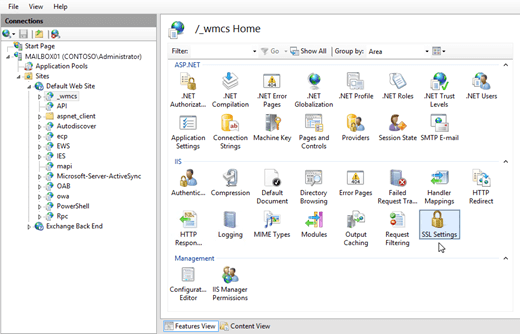
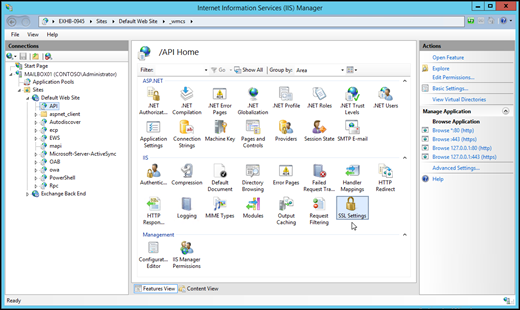
Text and art updates for OWA http/https redirection topic
Removed _wmcs and IES virtual directory information per Issue #797

diff --git a/Exchange/ExchangeServer/clients/outlook-on-the-web/http-to-https-redirection.md b/Exchange/ExchangeServer/clients/outlook-on-the-web/http-to-https-redirection.md
@@ -87,7 +87,7 @@ Based on the information in the [Default Require SSL and HTTP Redirect settings 
 
     ![In IIS Manager, in the SSL settings of the virtual directory, select Require under Require SSL.](../../media/b6d83a19-4f5d-4f9a-b681-8945940a0adc.png)
 
-5. Repeat the previous steps on each virtual directory in the default website that had **Require SSL** enabled by default (except for /owa). The only virtual directories that don't have **Require SSL** enabled by default are /IES, /PowerShell, and /Rpc.
+5. Repeat the previous steps on each virtual directory in the default website that had **Require SSL** enabled by default (except for /owa). The only virtual directories that don't have **Require SSL** enabled by default are /PowerShell and /Rpc.
 
 **Note**: To perform these procedures on the command line, replace _\<VirtualDirectory\>_ with the name of the virtual directory, and run the following command in an elevated command prompt:
 
@@ -192,13 +192,11 @@ The default **Require SSL** and **HTTP Redirect** settings for the default websi
 |**Website**|**Virtual directory**|**Require SSL**|**HTTP Redirect**|
 |:-----|:-----|:-----|:-----|
 |Default Web Site|n/a|yes|none|
-|Default Web Site|_wmcs|yes|none|
 |Default Web Site|API|yes|none|
 |Default Web Site|aspnet_client (directory)|yes|none|
 |Default Web Site|Autodiscover|yes|none|
 |Default Web Site|ecp|yes|none|
 |Default Web Site|EWS|yes|none|
-|Default Web Site|IES|no|none|
 |Default Web Site|mapi|yes|none|
 |Default Web Site|Microsoft-Server-ActiveSync|yes|none|
 |Default Web Site|OAB|yes|none|
